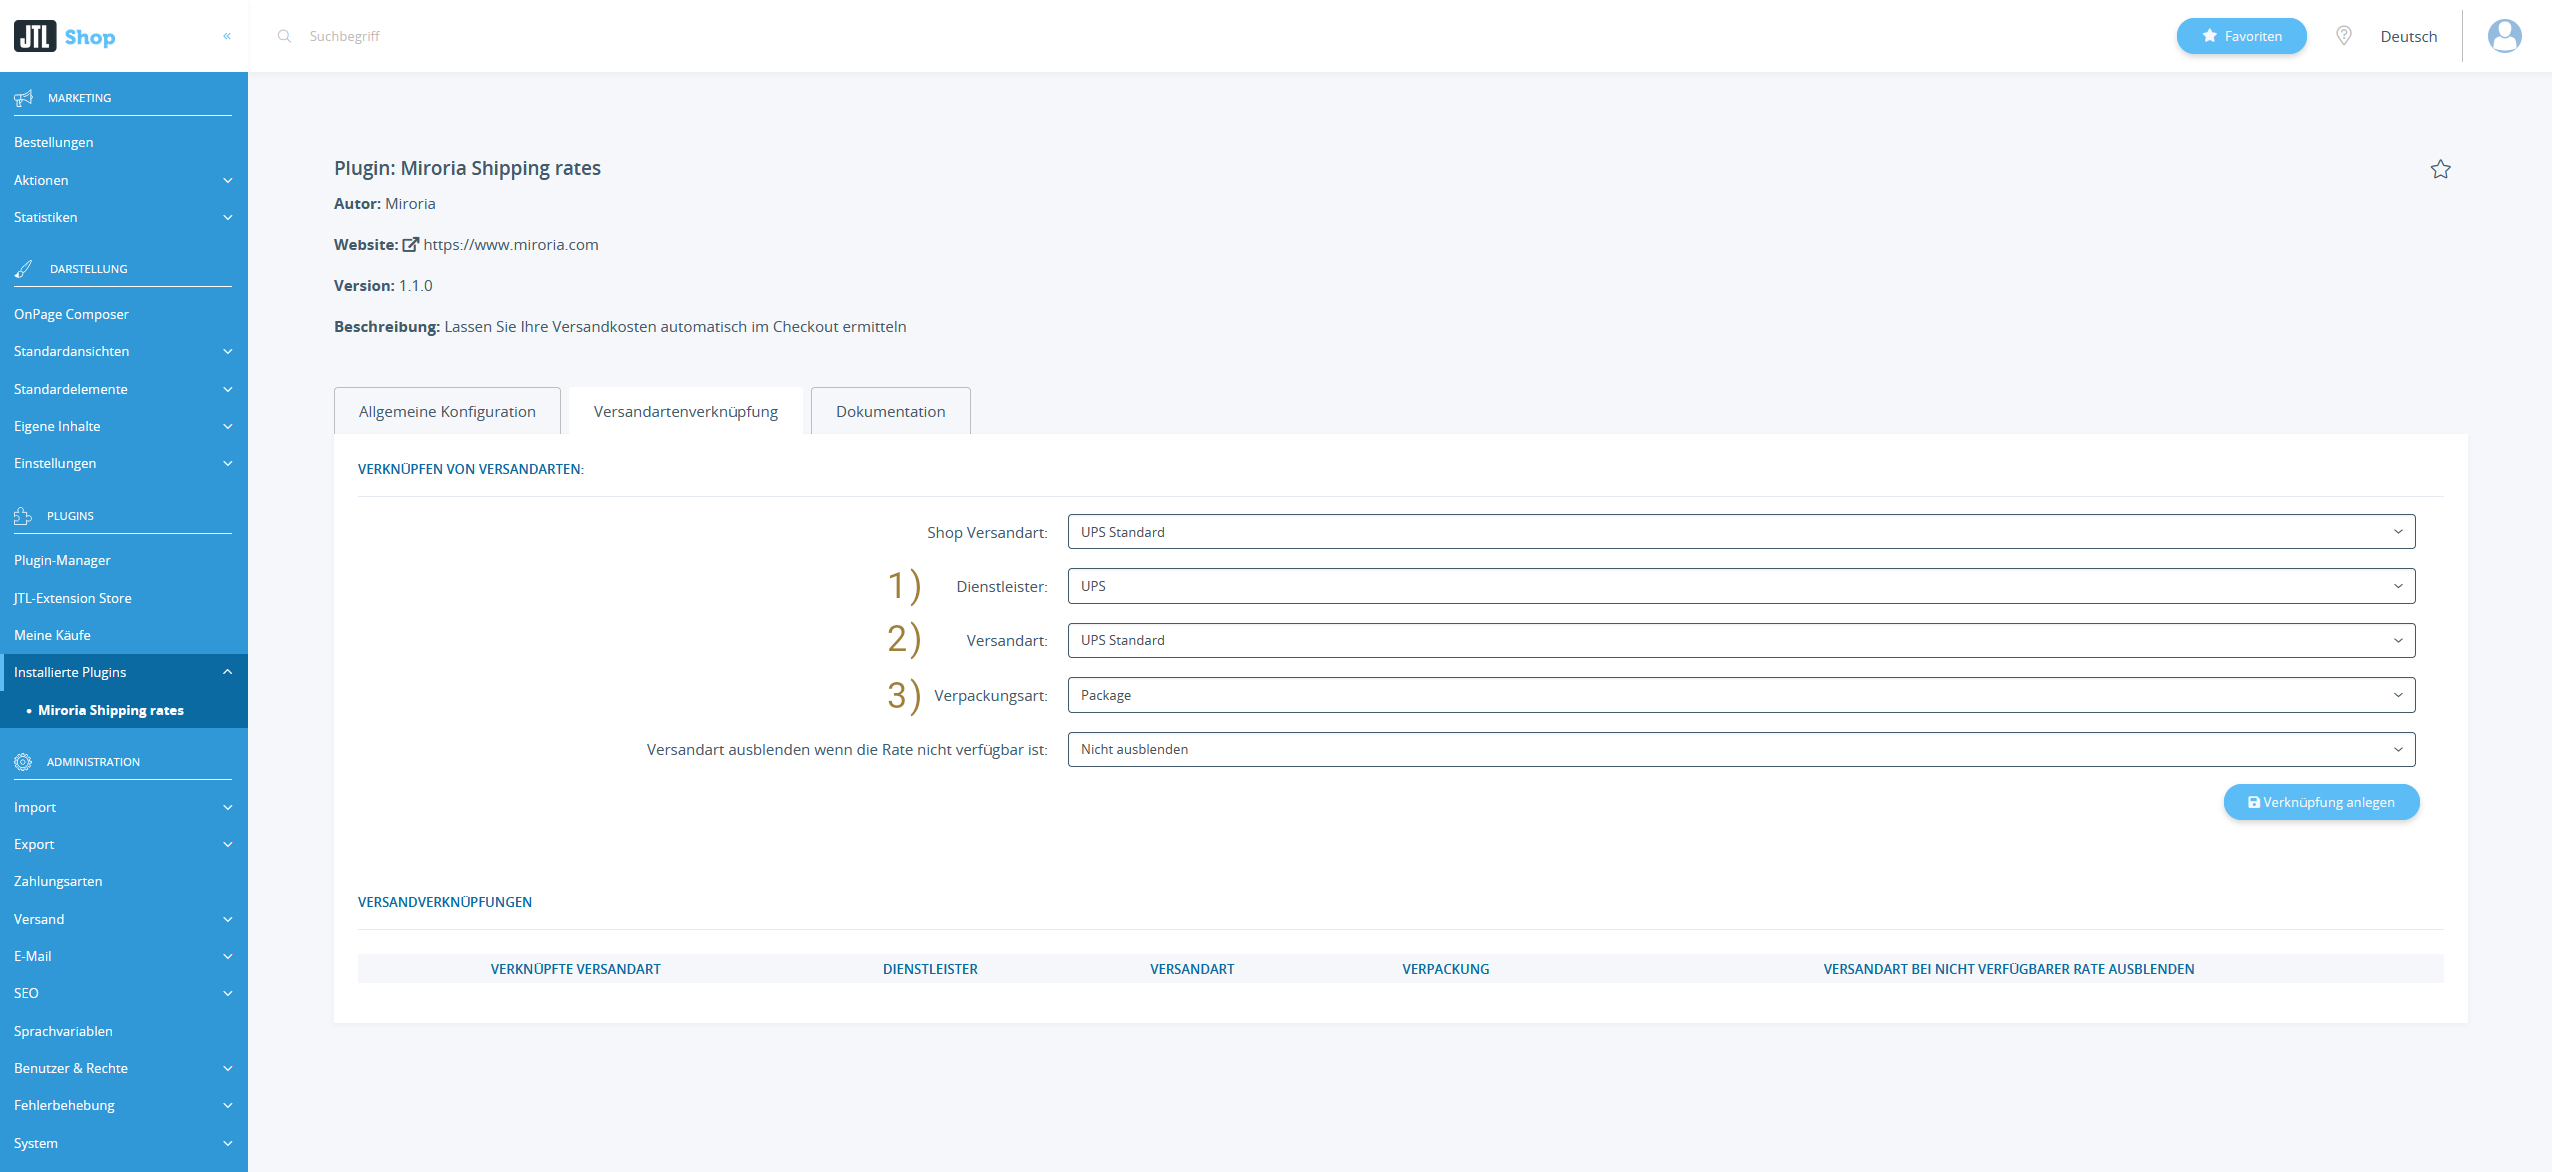
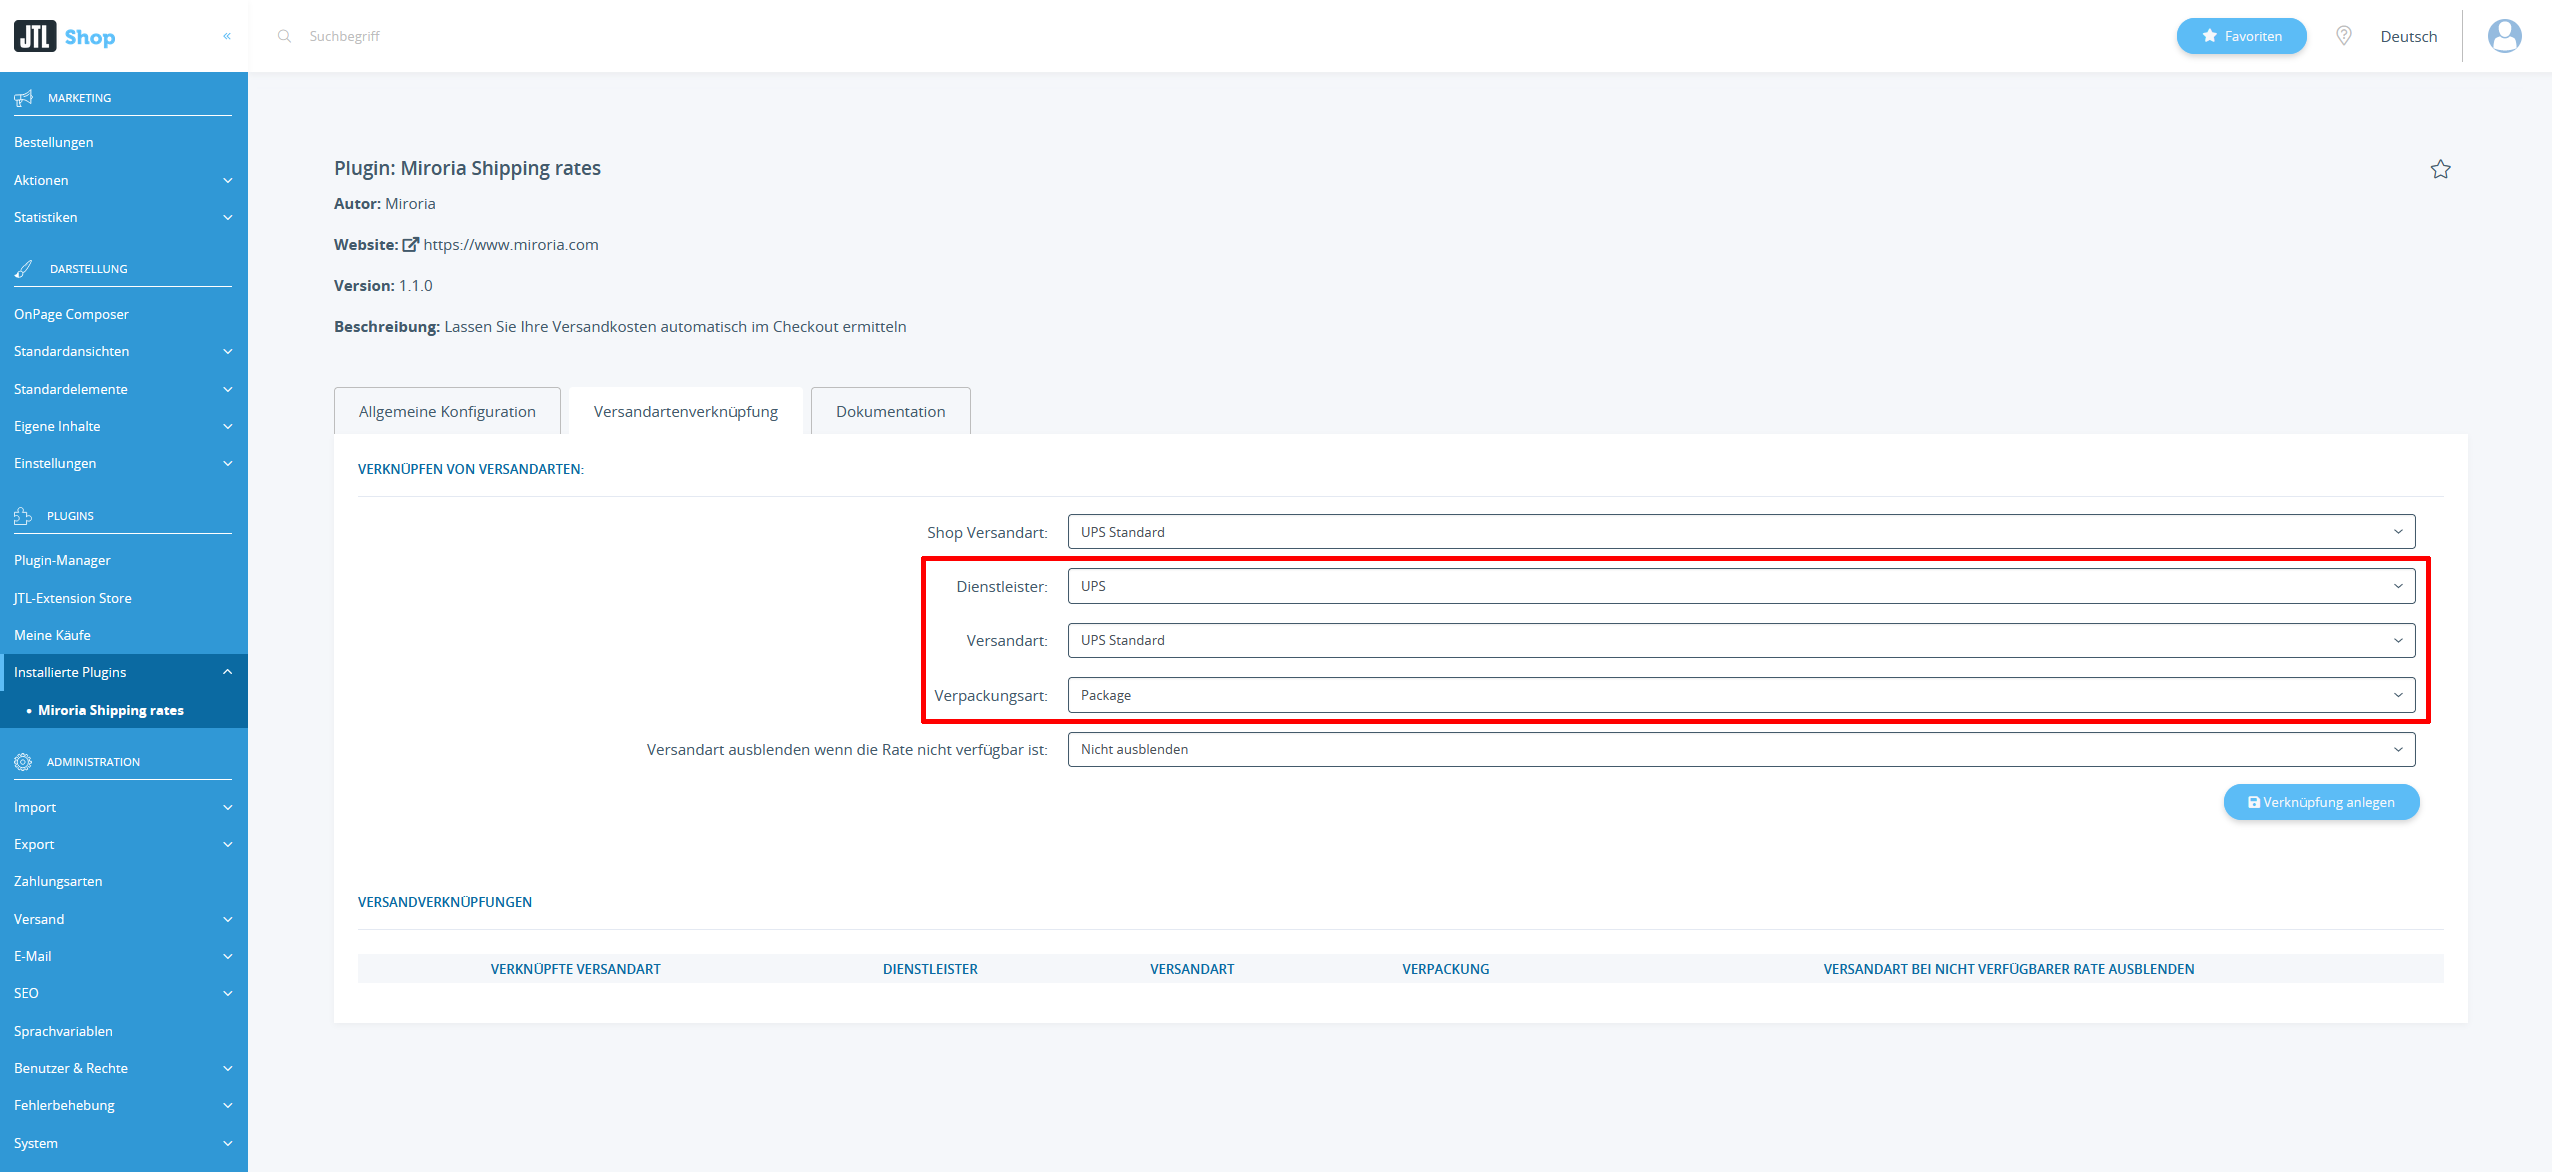
add basic ups docs

Changed region(s): [[0.3715, 0.4608, 0.9596, 0.4915], [0.3715, 0.6143, 0.9287, 0.6451], [0.3405, 0.4915, 0.3715, 0.6143]]

diff --git a/shipping-rate-plugin-ups-extension/README.md b/shipping-rate-plugin-ups-extension/README.md
@@ -41,43 +41,28 @@ und die Versandartenverknüpfung.
 1. Öffnen Sie den Admin-Bereich Ihres JTL Shops.
 2. Navigieren Sie zu `"Plugins" > "Installierte Plugins" > "Miroria Shipping Rates UPS extension"`.
 
-### Allgemeine Konfiguration
+### UPS Konfiguration
 
-Hier können Sie allgemeine Plugin-Konfigurationen vornehmen.
+Hier können Sie die UPS-Nutzer Konfigurationen vornehmen.
 
 ![UPS Nutzerkonfiguration](docu/bilder/Plugin_Konfiguration_UPS_Nutzerkonfiguration.png)
 
-1. `Ländercode`:
-   Der [ISO-Ländercode](https://en.wikipedia.org/wiki/ISO_3166-1_alpha-2#Officially_assigned_code_elements) der
-   Absenderadresse
-2. `Postleitzahl`: Die PLZ der Absenderadresse
-3. `Stadt`: Der Ort der Absenderadresse
-4. `Straße`: Die Straße der Absenderadresse
+Um die UPS-Schnittstelle zu Nutzen benötigen Sie einen UPS-Account.
+[Hier](https://developer.ups.com/get-started?loc=en_US) finden Sie die notwendigen Infos.<br>
+Gerne helfen wir Ihnen bei der Einrichtung Ihres Accounts. Nutzen Sie dafür den Einrichtungsservice, welchen sie im JTL-Extension Store zum Plugin dazubuchen können.
+
+1. `Paket Rechnungstyp`: Wählen Sie aus, ob Sie die Rechnung dem Paket beilegen.
+2. `Kundennummer`: Sie finden die Kundennummer unter `Home > Profile > Accounts and Payment Options > Number`
+3. `Client Id`: Für die Client Id müssen Sie im [UPS-Portal](https://developer.ups.com/get-started?loc=en_US) eine "App" angelegt haben.
+4. `Client Secret`: Für das Client Secret müssen Sie im [UPS-Portal](https://developer.ups.com/get-started?loc=en_US) eine "App" angelegt haben.
 
 ### Versandartenverknüpfung
-
-Hier können Sie Versandarten aus dem Shop mit den Versanddienstleistern verknüpfen.
-
+UPS-Versandarten können Sie über die Plugin-Einstellungen des Basis-Plugins verknüpfen.
 ![Versandartenverknüpfung](docu/bilder/Plugin_Konfiguration_UPS_Versandartenverknüpfung_Einstellungen.png)
 
-1. `Shop Versandart`: Auswahl an im Shop unter `"Administration" > "Versand" > "Versandarten"` definierten Versandarten
-2. `Dienstleister`: Auswahl an verfügbaren Dienstleistern. Fügen Sie weitere Dienstleister durch unsere [Extensions]()
-   hinzu.
-   Im Basis-Plugin gibt es die Option eine Versandart `Zusatzgebühr` zu verwenden. Auf die verknüpfte Versandart wird
-   dann die konfigurierte `Zusatzgebühr` gerechnet.
-   Bisher verfügbare Extensions:
-    1. [UPS]()
-
-   In Planung:
-    1. Shipmonk
-    2. DHL
-    3. FedEx
-3. `Versandart`: Vom Dienstleister bereitgestellte Versandarten.
-4. `Verpackungsart`: Vom Dienstleister bereitgestellte Verpackungsarten.
-5. `Versandart ausblenden wenn die Rate nicht verfügbar ist`: Soll die Versandart im Warenkorb ausgeblendet werden, wenn
-   die Rate nicht vom Dienstleister bezogen werden konnte
-6. `Verknüpfung anlegen`: Anlegen und freischalten der Verknüpfung.
-7. `Versandverknüpfungen`: Hier können Sie bereits verknüpfte Versandarten sehen und löschen.
+1. `Dienstleister`: Wählen Sie hier `UPS` aus
+2. `Versandart`: Auswahl der für UPS verfügbaren Versandarten
+3. `Verpackungsart`: Auswahl der für UPS verfügbaren Verpackungsarten.
 
 ## Bedienung des Plugins im Shop
 
